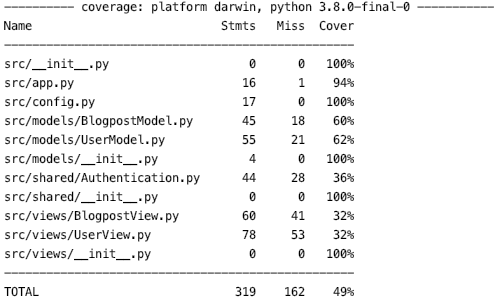
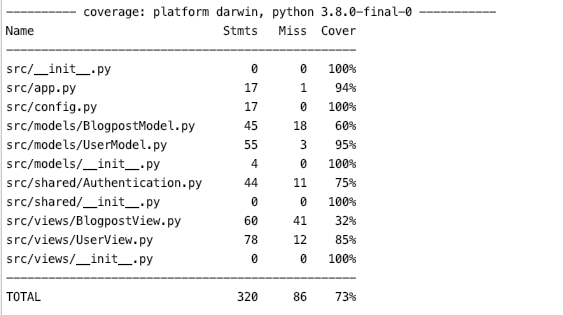
fix: updated pytest configuration

diff --git a/src/app.py b/src/app.py
@@ -14,6 +14,7 @@ def create_app(env_name):
 
     # app initiliazation
     app = Flask(__name__)
+    app.app_context().push()
 
     app.config.from_object(app_config[env_name])
     # initializing bcrypt

diff --git a/src/tests/test_user.py b/src/tests/test_user.py
@@ -1,7 +1,7 @@
 import unittest
 import os
 import json
-from ..app import create_app, db
+from src.app import create_app, db
 
 
 class UsersTest(unittest.TestCase):
